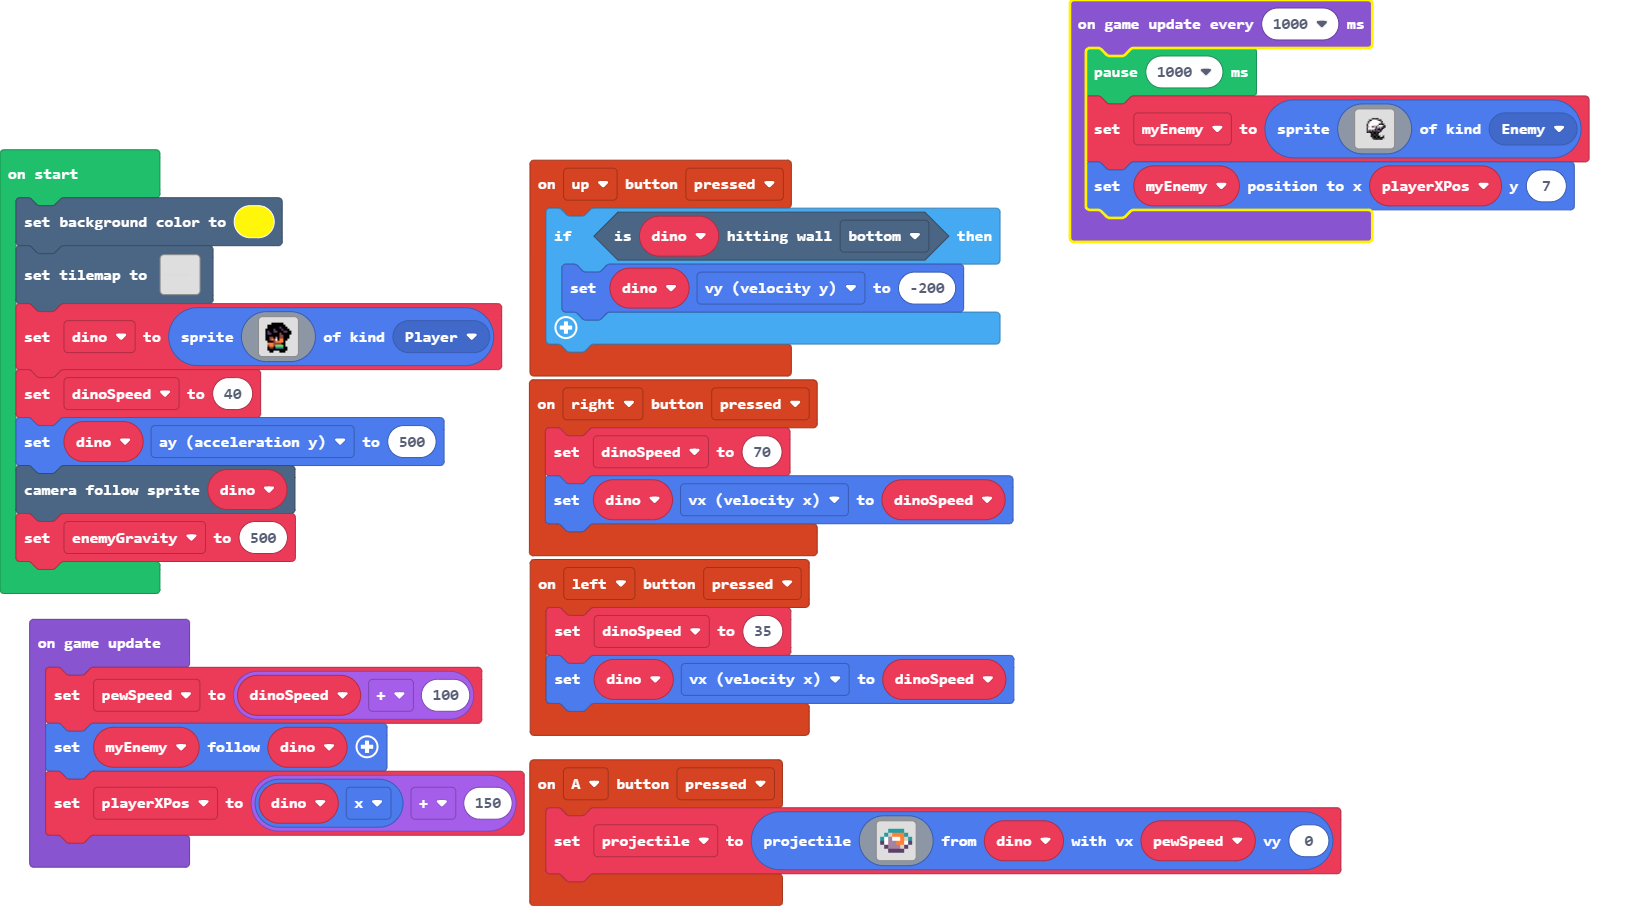
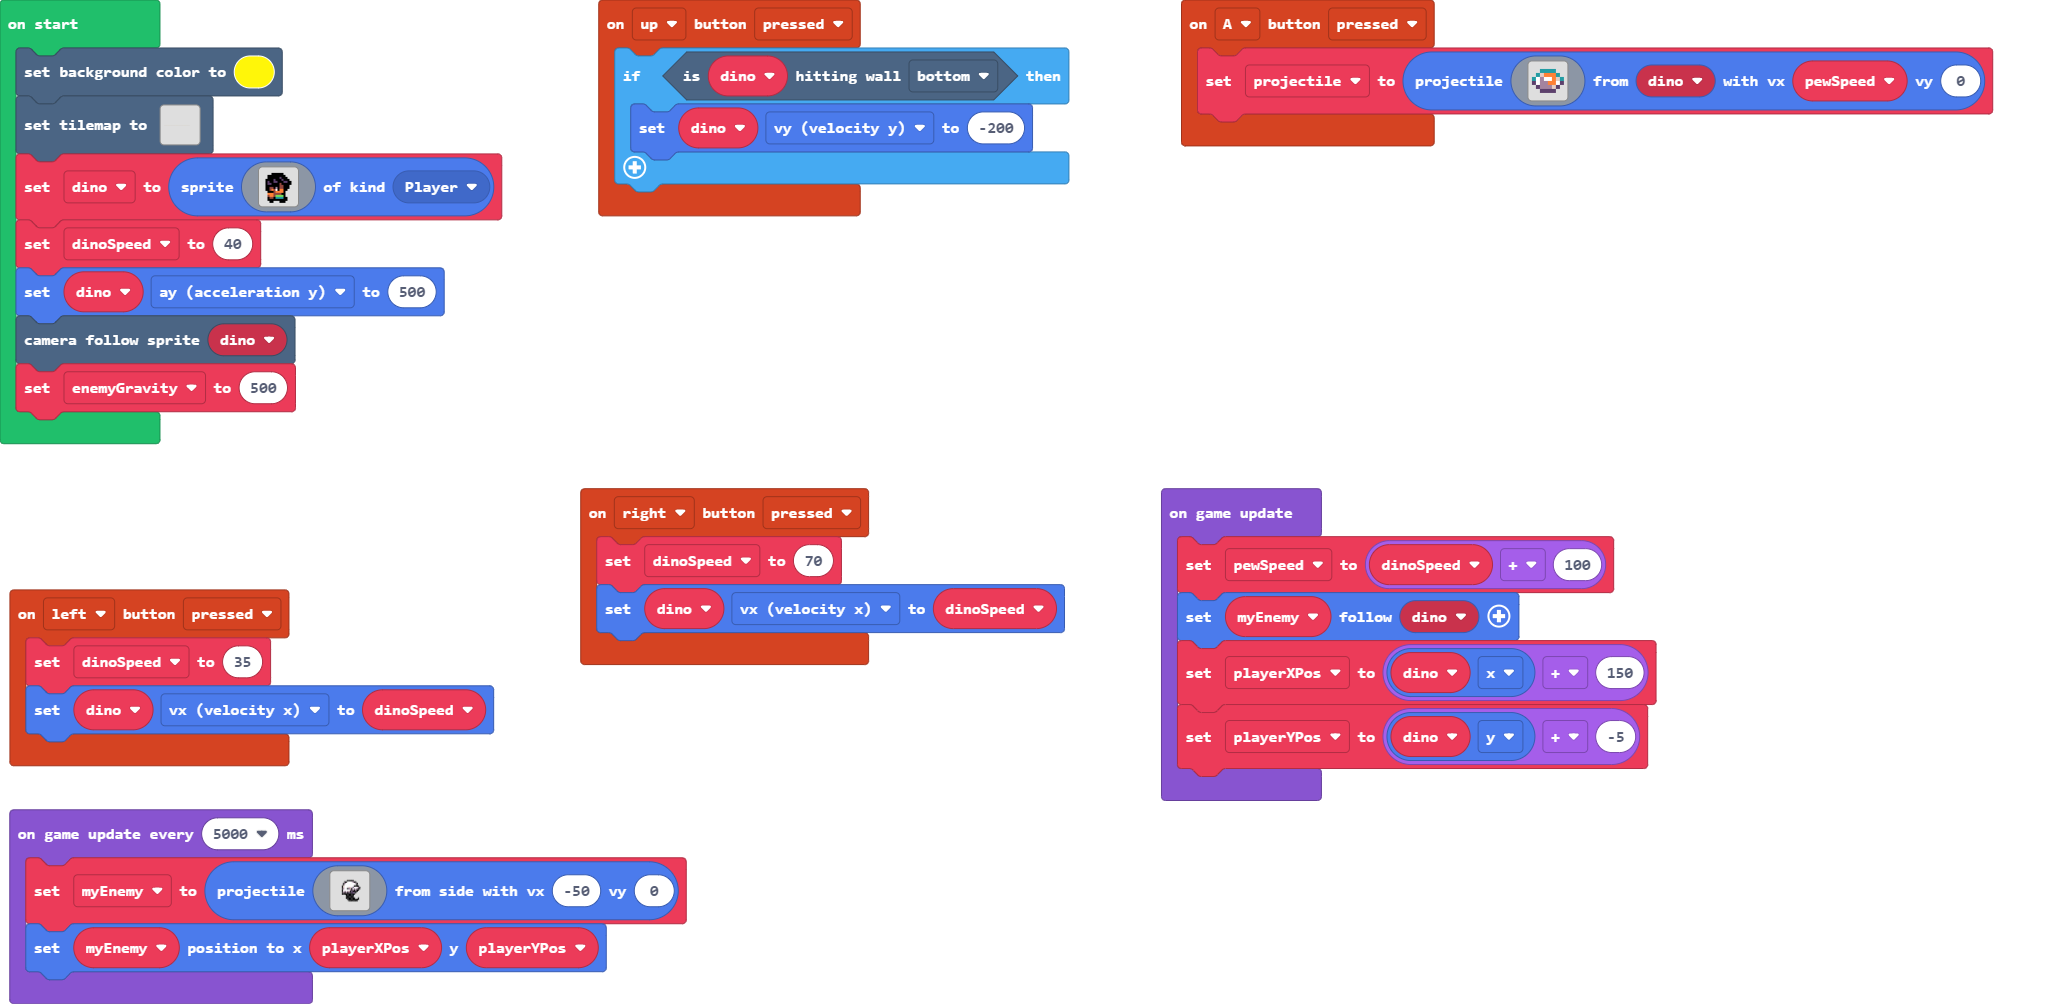
Update main.blocks, main.ts

diff --git a/main.ts b/main.ts
@@ -21,6 +21,7 @@ controller.right.onEvent(ControllerButtonEvent.Pressed, function () {
     dinoSpeed = 70
     dino.vx = dinoSpeed
 })
+let playerYPos = 0
 let playerXPos = 0
 let myEnemy: Sprite = null
 let pewSpeed = 0
@@ -64,10 +65,10 @@ game.onUpdate(function () {
     pewSpeed = dinoSpeed + 100
     myEnemy.follow(dino)
     playerXPos = dino.x + 150
+    playerYPos = dino.y + -5
 })
-game.onUpdateInterval(1000, function () {
-    pause(1000)
-    myEnemy = sprites.create(img`
+game.onUpdateInterval(5000, function () {
+    myEnemy = sprites.createProjectileFromSide(img`
         ........................
         ........................
         ........................
@@ -92,6 +93,6 @@ game.onUpdateInterval(1000, function () {
         ........................
         ........................
         ........................
-        `, SpriteKind.Enemy)
-    myEnemy.setPosition(playerXPos, 7)
+        `, -50, 0)
+    myEnemy.setPosition(playerXPos, playerYPos)
 })
